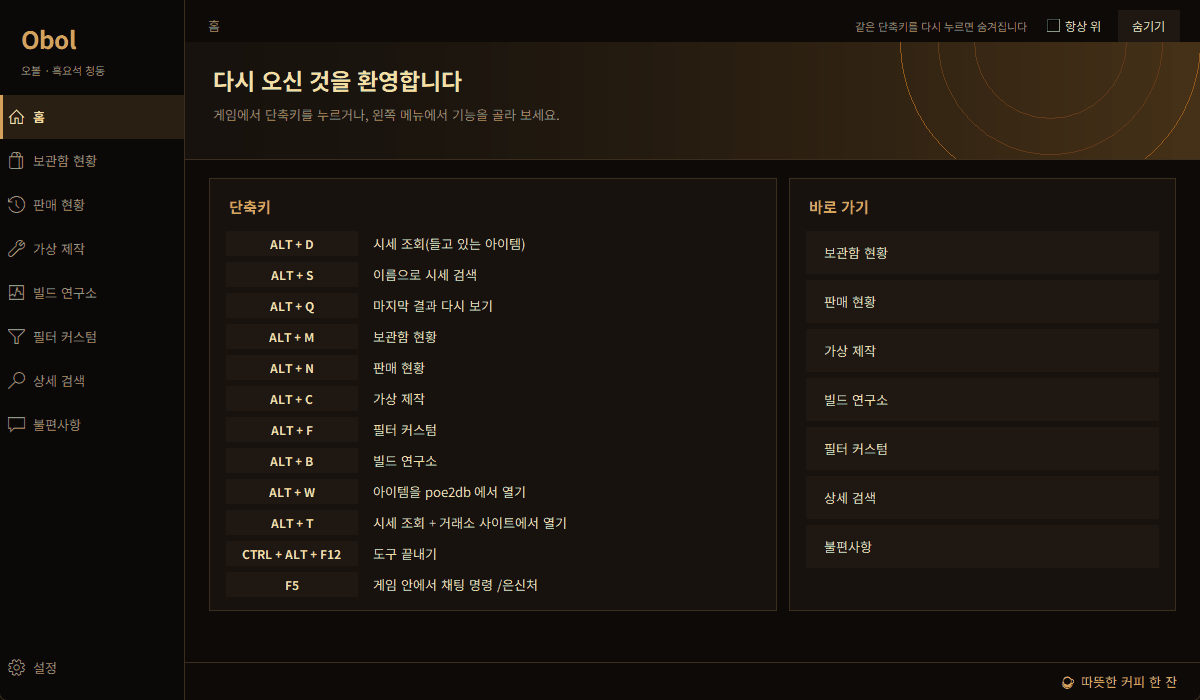
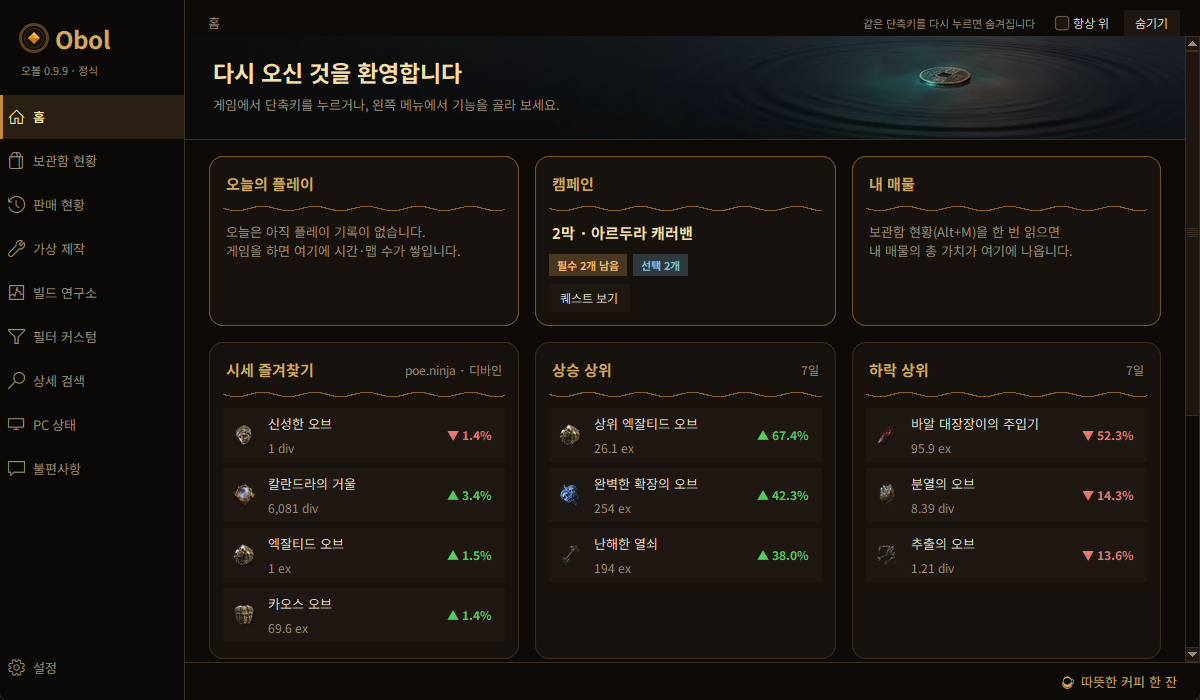
랜딩·README: v0.9.9 해시와 새 기능(둥근 화면, 퀘스트 안내, PC 상태) 설명

diff --git a/docs/index.html b/docs/index.html
@@ -38,7 +38,7 @@ details{border-top:1px solid var(--line);padding:10px 0}summary{cursor:pointer;c
 
   <a class="dl" href="https://github.com/paylupin84/obol/releases/latest/download/Obol.exe">Obol 다운로드 (Windows)</a>
   <span class="small">exe 파일 하나 · 설치 필요 없음 · 무료 · 항상 최신 버전이 받아집니다</span>
-  <div class="hash">SHA-256 (v0.9.8): cc50829a5f2e5484268e58fd4bb5486c95dff7df9eaab210dd687a198e6bdf48</div>
+  <div class="hash">SHA-256 (v0.9.9): 4cc0c7d7a27228a22e90b6950ea50c515e9bfa3a1257358152c23a8c978378cc</div>
 
   <img class="shot" src="price.png" alt="Alt+D 시세 조회 화면: 매물 가격 목록과 마우스를 올린 매물의 옵션">
   <span class="small" style="margin-top:0">Alt+D 시세 조회 — 매물 줄에 마우스를 올리면 오른쪽에 그 아이템의 옵션이 뜹니다(판매자 이름은 가렸습니다).</span>
@@ -46,13 +46,18 @@ details{border-top:1px solid var(--line);padding:10px 0}summary{cursor:pointer;c
   <h2>이런 도구입니다</h2>
   <table>
     <tr><td>Alt+D</td><td><b>시세 조회.</b> 게임에서 아이템에 마우스를 올리고 누르면 한글 그대로 카카오 거래소의 비슷한 매물 가격이 게임 위에 뜹니다. 줄에 마우스를 올리면 그 매물의 옵션, 클릭하면 내 아이템과 나란히 비교합니다. 희귀·고유 장비는 비슷한 매물로 <b>'적정가' 한 줄 추천</b>도 붙습니다(추천일 뿐이고 등록가 기준 — 가격은 직접 정하세요).</td></tr>
-    <tr><td>Alt+C</td><td>가상 제작 — 접두·접미를 가중치대로 뽑아 보고, 만든 아이템의 비슷한 매물 시세까지 봅니다.</td></tr>
+    <tr><td>Alt+C</td><td>가상 제작 — 접두·접미를 가중치대로 뽑아 보고, 오브 아이콘을 눌러 제작을 시험하고, 만든 아이템의 비슷한 매물 시세까지 봅니다.</td></tr>
     <tr><td>Alt+B</td><td>빌드 연구소 — PoB 코드·pobb.in·poe.ninja 링크의 유명 빌드를 내 빌드와 견주고, 맞출 옵션을 골라 시세·제작으로 이어 갑니다. 액체 감정 찾기도 있습니다. 주얼·장비를 끼웠을 때의 DPS·방어 변화는 <b>PoB 계산 엔진</b>으로 계산합니다(PoB 설치 필요 없음, 처음 한 번 약 5MB 내려받기).</td></tr>
     <tr><td>Alt+M / N</td><td>보관함 현황(내 매물 총 가치, 매물별 '적정가 점검'), 판매 현황(정확한 판매 시각·가격)</td></tr>
+    <tr><td>홈</td><td>오늘의 플레이, 지금 마을과 남은 퀘스트, 시세 즐겨찾기, 일주일 상승·하락 상위, PC 상태가 한눈에 보입니다.</td></tr>
+    <tr><td>퀘스트</td><td><b>마을·지역 퀘스트 안내.</b> 새 마을이나 지역에 들어가면 그곳에서 할 일·보상·다음 이동을 게임 위 작은 글씨로 보여 줍니다(필수 · ★추천 · 선택). ✕를 누르기 전엔 꺼지지 않고, 끝낸 퀘스트는 체크하면 다음에 빠집니다. 보상 수치는 외부 공개 자료 기준이라 카카오 서버에서는 확인하지 못했습니다.</td></tr>
+    <tr><td>PC 상태</td><td>CPU·메모리·GPU·VRAM 실시간 수치와 PoE2 메모리 경고, 메모리를 많이 쓰는 프로그램을 골라 닫는 메모리 정리(필수 프로세스는 절대 안 닫음). Obol 창을 숨기거나 최소화하면 항상 위 <b>작은 표시줄</b>로 바뀝니다.</td></tr>
     <tr><td>그 밖에</td><td>죽었을 때 직전 장면 다시 보기와 <b>원인 추정</b>, 게임을 끄면 오늘의 요약, 자리비움 대기 화면, 필터 커스텀(Alt+F), 스킨, 불편사항 보내기</td></tr>
   </table>
 
   <img class="shot" src="home.png" alt="Obol 홈 화면" style="margin-top:26px">
+  <img class="shot" src="craft.png" alt="가상 제작 화면: 오브 아이콘 버튼과 아이템 카드" style="margin-top:14px">
+  <span class="small" style="margin-top:0">가상 제작 — 오브를 눌러 제작을 시험합니다. 쓴 횟수가 아이콘 위에 쌓입니다.</span>
 
   <p class="warn"><b>꼭 읽어 주세요.</b> Obol 은 비공식 팬 도구입니다. 게임에는 아이템 복사 키(Ctrl+C)만 보내고 게임 파일·메모리는 읽거나 고치지 않지만, Grinding Gear Games 나 카카오게임즈가 허용한다는 확인은 받지 못했습니다. <b>계정 안전을 보장하지 않으며 사용은 본인 책임입니다.</b></p>
 
@@ -71,6 +76,7 @@ details{border-top:1px solid var(--line);padding:10px 0}summary{cursor:pointer;c
   <details><summary>소스는 공개하나요? 어디에 접속하나요?</summary><p>소스는 공개하지 않습니다. 접속처는 카카오 거래소, poe.ninja, poe2db, GitHub(업데이트 확인, 정밀 계산 묶음 내려받기)이며, '불편사항 보내기'를 누를 때만 그 글을 개발자에게 전송합니다. 채팅 단축키(F5 등)를 설정하면 그 키에서 <code>/명령어</code> 한 줄을 입력합니다.</p></details>
   <details><summary>화면을 녹화하나요?</summary><p>"죽었을 때 직전 장면 보기"를 켜 두면, 게임 창이 맨 앞일 때만 화면을 작게 줄여 최근 12초를 <b>메모리에만</b> 기억합니다(디스크에 쓰지 않고 외부로 보내지 않음). 죽었을 때 그 장면을 작은 창으로 보여 주고, 사용자가 '저장'을 누를 때만 파일로 남깁니다. 게임 파일·메모리는 읽지 않으며 설정 탭에서 끌 수 있습니다. 죽은 뒤 '원인 추정'은 ① 게임이 스스로 쓰는 로그 파일의 사망 직전 60초 ② 화면 왼쪽 아래 생명력·보호막 숫자 부분을 윈도 내장 글자 읽기로 읽은 값을 봅니다. 게임에 기록되지 않는 '진짜 원인'이 아니라 <b>추정</b>입니다.</p></details>
   <details><summary>'정밀 계산'을 쓰려면 PoB 를 깔아야 하나요?</summary><p>아니요. Path of Building(PoE2)의 계산 모듈(MIT 라이선스)만 추린 약 5MB 묶음을 처음 한 번 GitHub 에서 내려받아 Obol 이 직접 돌립니다. poe.ninja 캐릭터 링크로 불러온 내 빌드 기준이고 poe.ninja 데이터는 실시간이 아니라서 갱신 시각을 같이 보여 줍니다. 계산 못 하는 줄은 '계산 못 함'으로 두며, 실전 DPS 와 다를 수 있습니다.</p></details>
+  <details><summary>PC 상태·메모리 정리는 안전한가요?</summary><p>수치는 읽기만 합니다(관리자 권한 필요 없음). '메모리 정리'는 내가 체크한 프로그램만, 무엇이 닫히는지 보여 주는 확인 창을 거친 뒤에 닫습니다. Windows 필수 프로세스와 Obol 자신은 목록에 나오지 않고, 편집기·Claude 같은 주의 표시가 붙은 것은 경고에 동의해야만 닫힙니다. 저장하지 않은 작업은 사라질 수 있으니 확인 창을 읽어 주세요.</p></details>
   <details><summary>돈을 받나요?</summary><p>무료이고 기능 제한이 없습니다. 후원은 도구 안의 ☕ 따뜻한 커피 한 잔에서 자유롭게 하실 수 있습니다.</p></details>
 
   <h2>링크</h2>
@@ -78,7 +84,7 @@ details{border-top:1px solid var(--line);padding:10px 0}summary{cursor:pointer;c
     <li><a href="https://github.com/paylupin84/obol/releases/latest">최신 버전과 업데이트 내역</a></li>
   </ul>
 
-  <footer>Obol 은 비공식 팬 도구이며 Grinding Gear Games, 카카오게임즈와 제휴·후원 관계가 아닙니다. 접두·접미·액체 감정 데이터: <a href="https://poe2db.tw">poe2db.tw</a> (CC BY-NC-SA 3.0), 화폐 시세: <a href="https://poe.ninja">poe.ninja</a>.</footer>
+  <footer>Obol 은 비공식 팬 도구이며 Grinding Gear Games, 카카오게임즈와 제휴·후원 관계가 아닙니다. 접두·접미·액체 감정 데이터: <a href="https://poe2db.tw">poe2db.tw</a> (CC BY-NC-SA 3.0), 화폐 시세: <a href="https://poe.ninja">poe.ninja</a>. 화면의 그림 띠 이미지는 AI(Google Flow)로 만들었습니다.</footer>
 </div>
 </body>
 </html>
